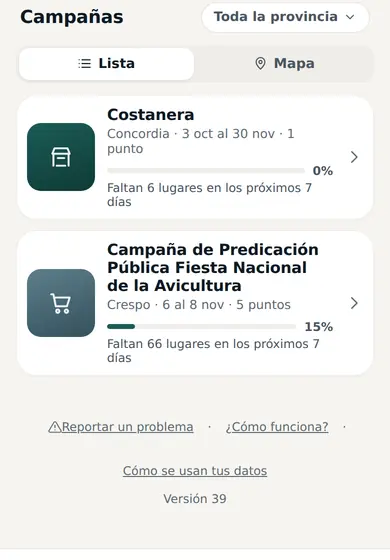
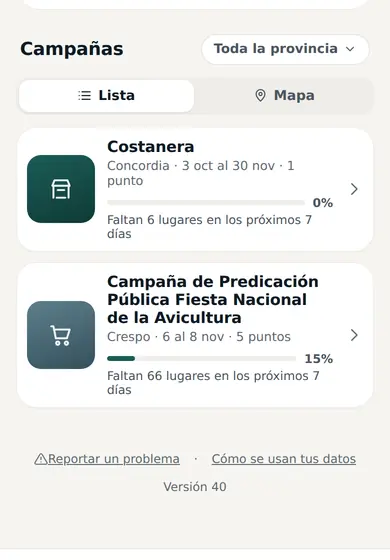
v41: pestaña Ayuda con preguntas frecuentes
Claude-Session: https://claude.ai/code/session_01JsTLEoMKfP711YL4JEEee1

diff --git a/app.js b/app.js
@@ -49,7 +49,7 @@
     admins: [], coordEmails: {}, pend: {}, pendUnsub: {},
     isSoporte: false, soporteEmails: [], sop: { reportes: {}, errores: {}, unsub: [], filtro: 'nuevo', detalle: false, limpio: false }, ultimoError: null
   };
-  const VERSION = '40';
+  const VERSION = '41';
   window.__ppam = S;   // para las pruebas
 
   function toast(msg) { if (/^No se pudo/.test(msg)) registrarError('aviso', msg); const t = $('toast'); t.textContent = msg; t.classList.add('show'); clearTimeout(toast.t); toast.t = setTimeout(() => t.classList.remove('show'), 2600); }
@@ -126,6 +126,7 @@
     else if (h[0] === 'coord') S.route = { name: 'coord', cid: h[1] || null };
     else if (h[0] === 'admin') S.route = { name: 'admin' };
     else if (h[0] === 'soporte') S.route = { name: 'soporte' };
+    else if (h[0] === 'ayuda') S.route = { name: 'ayuda', q: h[1] || '' };
     else S.route = { name: 'home' };
     window.scrollTo(0, 0);
   }
@@ -135,7 +136,7 @@
     const r = S.route, c = r.cid && S.campanas[r.cid];
     document.body.className = 'r-' + r.name;
     const esCoord = !!(S.user && (S.isAdmin || S.coordDe.length || S.isSoporte));
-    const atras = r.name === 'camp' || r.name === 'turno' || r.name === 'admin' || (r.name === 'soporte' && (S.isAdmin || S.coordDe.length)) || (r.name === 'coord' && r.cid && (S.isAdmin || S.coordDe.length > 1));
+    const atras = r.name === 'camp' || r.name === 'turno' || r.name === 'ayuda' || r.name === 'admin' || (r.name === 'soporte' && (S.isAdmin || S.coordDe.length)) || (r.name === 'coord' && r.cid && (S.isAdmin || S.coordDe.length > 1));
     $('backBtn').classList.toggle('hidden', !atras);
     $('brand').classList.toggle('hidden', r.name !== 'home' && S.loaded);
     $('shareBtn').classList.toggle('hidden', r.name !== 'camp' || !c);
@@ -145,13 +146,14 @@
     ub.setAttribute('aria-label', S.user ? 'Mi cuenta' : 'Ingresar');
     $('coordBtn').classList.toggle('hidden', !esCoord);
     $('busBtn').classList.toggle('hidden', !S.user);
-    [['tabHome', ['home', 'camp']], ['tabMis', ['mis', 'turno']], ['coordBtn', ['coord', 'admin', 'soporte']]].forEach(([id, rs]) => $(id).classList.toggle('on', rs.includes(r.name)));
+    [['tabHome', ['home', 'camp']], ['tabMis', ['mis', 'turno']], ['tabAyuda', ['ayuda']], ['coordBtn', ['coord', 'admin', 'soporte']]].forEach(([id, rs]) => $(id).classList.toggle('on', rs.includes(r.name)));
     let k = '', t = '', s = '';
     if (r.name === 'camp' && c) { k = c.ciudad || ''; t = c.nombre; s = campRango(c); }
     else if (r.name === 'mis') { t = 'Mis turnos'; s = 'Tus turnos, su estado y cómo llegar.'; }
     else if (r.name === 'turno') { t = 'Tu turno'; }
     else if (r.name === 'coord') { k = 'Coordinación'; t = c ? c.nombre : 'Tus campañas'; s = c ? (c.ciudad || '') + ' · ' + campRango(c) : ''; }
     else if (r.name === 'admin') { k = 'Administración'; t = 'Campañas y equipo'; }
+    else if (r.name === 'ayuda') { k = 'Ayuda'; t = 'Preguntas frecuentes'; s = 'Cómo anotarte, tus turnos y tus datos.'; }
     else if (r.name === 'soporte') { k = 'Soporte'; t = 'Reportes y errores'; s = 'Lo que avisan los hermanos y lo que la página anota sola.'; }
     $('tbKicker').textContent = k; $('tbTitle').textContent = t; $('tbSub').textContent = s;
     $('tbExtra').innerHTML = '';
@@ -262,6 +264,7 @@
     if (r.name === 'coord') return renderCoord();
     if (r.name === 'admin') return renderAdmin();
     if (r.name === 'soporte') return renderSoporte();
+    if (r.name === 'ayuda') return renderAyuda();
     renderHome();
   }
 
@@ -396,6 +399,45 @@
   function guiaCoord() {
     try { if (localStorage.getItem('ppam-guia-coord')) return ''; } catch (e) { return ''; }
     return `<div class="cguia"><b>${I('star', 'width:16px;height:16px')}Cómo se usa Coordinación</b><ul><li><b>Pedidos:</b> confirmá o no a quien se anotó. Con el botón verde le escribís por WhatsApp.</li><li><b>Del día:</b> quién va a cada punto, y la lista para compartir con el grupo.</li><li><b>La lupa</b> (arriba): buscá un hermano, un punto o un turno, y anotá a alguien que no usa la app.</li></ul><button type="button" class="sbtn" data-cguia>Entendido</button></div>`;
+  }
+  /* ---------- Ayuda: preguntas frecuentes (texto fijo, sin lecturas a Firebase) ---------- */
+  const AYUDA = [
+    { g: 'Anotarme', qs: [
+      ['google', '¿Por qué tengo que entrar con Google?', 'Para saber que sos vos: así nadie puede anotarse a tu nombre y podés ver tus turnos desde cualquier celular. Usamos tu cuenta solo para eso; no vemos tus correos ni tus contactos.'],
+      ['espera', 'Mi turno dice "Esperando confirmación", ¿qué significa?', 'Que tu pedido llegó bien y un coordinador de la campaña lo tiene que confirmar. Mientras tanto el lugar queda guardado para vos. Cuando lo confirme, en Mis turnos va a decir "Confirmado".'],
+      ['completo', 'Un horario dice "Completo", ¿qué hago?', 'Elegí otro horario u otro día: los que tienen lugar dicen "Faltan" y cuántos. Con el filtro "Con lugar" ves solo esos, y con la lupa de arriba buscás lugares libres para hoy o mañana en toda la provincia.'],
+      ['acompanado', '¿Puedo anotarme con mi esposa o con otro hermano?', 'Sí. Cada uno se anota con su propia cuenta en el mismo horario. Al anotarte podés dejar una nota para el coordinador, por ejemplo "Voy con mi esposa". Desde tu turno, "Invitar a alguien a este turno" le manda el enlace por WhatsApp.'],
+      ['varios', '¿Puedo anotarme en más de un turno?', 'Sí, en los que quieras. Si dos turnos se superponen en el horario, la app te avisa antes de confirmar.']
+    ] },
+    { g: 'Mis turnos', qs: [
+      ['confirmado', '¿Cómo sé si me confirmaron?', 'Entrá a Mis turnos: cada turno dice "Esperando confirmación" o "Confirmado". También lo ves en el inicio. La app no manda notificaciones; si hace falta, el coordinador te escribe por WhatsApp.'],
+      ['llegar', '¿Cómo llego al lugar?', 'En tu turno, "Llegar" abre Google Maps con el lugar marcado. En la campaña, "Ver lugar" muestra fotos e indicaciones del punto.'],
+      ['agendar', '¿Cómo lo agendo en el calendario del celular?', 'En tu turno tocá "Agendar": se descarga un archivo que tu celular abre con el calendario, con el día, el horario y el lugar.'],
+      ['cancelar', 'No puedo ir, ¿cómo cancelo?', 'Entrá a Mis turnos, tocá el turno y después "Cancelar". El lugar se libera enseguida para otro hermano. Avisá con tiempo: así el coordinador puede cubrirlo.']
+    ] },
+    { g: 'Mis datos y la app', qs: [
+      ['datos', '¿Quién ve mis datos?', 'Solo los coordinadores de la campaña en la que te anotaste, para organizar los turnos. Los demás hermanos ven cuántos lugares quedan, pero nunca quién está anotado.'],
+      ['borrar', '¿Cómo borro mis datos de este celular?', 'Tocá tu inicial arriba a la derecha y después "Borrar mis datos de este celular". Se borran tu nombre, celular y búsquedas guardadas; tus turnos no se tocan. Al cerrar sesión también se borra lo guardado.'],
+      ['instalar', '¿Cómo instalo la app en el celular?', 'Tocá tu inicial arriba a la derecha y después "Instalar la app". En iPhone: en Safari, tocá Compartir y "Agregar a inicio". Queda como un ícono más y abre más rápido.'],
+      ['senal', 'No me carga o tengo poca señal, ¿qué hago?', 'La app guarda en el celular lo último que cargó, así que podés ver campañas y turnos con poca señal. Si te anotás o cancelás sin conexión, se manda solo cuando vuelve. Si no carga nada, cerrala y volvé a abrirla; si sigue igual, usá "Reportar un problema".']
+    ] },
+    { g: 'Para coordinadores', coord: true, qs: [
+      ['anotar', '¿Cómo anoto a un hermano que no usa la app?', 'En Del día, tocá "Anotar" en el horario, o buscalo con la lupa de arriba. Queda confirmado y podés avisarle por WhatsApp con un solo mensaje.'],
+      ['lista', '¿Cómo paso la lista del día al grupo de WhatsApp?', 'En Del día, elegí el día y tocá "Compartir la lista por WhatsApp" al final: arma el mensaje con cada punto, horario y quiénes van.'],
+      ['recuperar', 'Borré algo por error, ¿se puede recuperar?', 'En Ajustes › Historial ves quién cambió qué y cuándo; los puntos y turnos borrados se pueden volver con "Restaurar". Para cualquier otra cosa, avisale al administrador: hay copias de seguridad diarias.']
+    ] }
+  ];
+  function renderAyuda() {
+    const esCoord = !!(S.user && (S.isAdmin || S.coordDe.length));
+    let h = `<button type="button" class="btn alt" id="ayBv" style="margin:4px 0 6px">${I('star', 'width:18px;height:18px')}Ver la bienvenida otra vez</button>`;
+    AYUDA.filter(g => !g.coord || esCoord).forEach(g => {
+      h += `<div class="sec">${esc(g.g)}</div><div class="card faq">${g.qs.map(([id, q, a]) => `<details name="faq" id="faq-${id}"${S.route.q === id ? ' open' : ''}><summary>${esc(q)}${I('chev', 'width:16px;height:16px')}</summary><p>${esc(a)}</p></details>`).join('')}</div>`;
+    });
+    h += `<div class="card" style="padding:14px 16px;margin-top:14px"><b>¿No encontraste tu respuesta?</b><p class="hint" style="margin:4px 0 10px">Contanos qué pasó y te ayuda el equipo de soporte.</p><button type="button" class="sbtn" id="ayRep">${I('alert', 'width:15px;height:15px')}Reportar un problema</button></div>`;
+    $('app').innerHTML = h;
+    $('ayBv').addEventListener('click', () => bienvenida(true));
+    $('ayRep').addEventListener('click', () => reportar());
+    if (S.route.q) { const d = $('faq-' + S.route.q); if (d) setTimeout(() => d.scrollIntoView({ block: 'center' }), 50); }
   }
   function renderHome() {
     const list = Object.values(S.campanas).filter(c => c.activa !== false && (!c.hasta || c.hasta >= hoy()))
@@ -775,7 +817,7 @@
     const url = rech ? '' : comoLlegarUrl(pt, c), d = parseIso(p.fecha), pasado = p.fecha < hoy();
     let h = pt.lat != null ? mapaLugar(pt, c, 'big')
       : `<div class="mapa big foto"${fotoAttr(p.cid, (pt.fotos || [])[0], `background-image:${colorDe(c.id ? c : { id: p.cid })};`)}></div>`;
-    h += `<div class="det"><div class="st ${esc(p.estado)}"><i></i>${conf ? 'Confirmado por un coordinador' : rech ? 'No fue confirmado' : 'Esperando confirmación'}</div>`;
+    h += `<div class="det"><div class="st ${esc(p.estado)}"><i></i>${conf ? 'Confirmado por un coordinador' : rech ? 'No fue confirmado' : 'Esperando confirmación'}${!conf && !rech ? ' <a class="qhelp" href="#/ayuda/espera">¿Qué significa?</a>' : ''}</div>`;
     h += `<h2>${esc(cap(DOW_L[d.getDay()]))} ${d.getDate()} de ${MES[d.getMonth()]} · <span class="num">${esc(p.desde)} a ${esc(p.hasta)}</span></h2>`;
     h += `<div class="m">${esc([c.nombre, pt.nombre, pt.direccion].filter(Boolean).join(' · '))}</div>`;
     if (!rech) h += `<div class="tl"><span class="ok"><span class="dot">${I('check')}</span>Pedido</span><span class="ln on"></span><span class="${conf ? 'ok' : ''}"><span class="dot">${conf ? I('check') : ''}</span>Confirmado</span><span class="ln${pasado ? ' on' : ''}"></span><span class="${pasado ? 'ok' : ''}"><span class="dot">${pasado ? I('check') : ''}</span>El día</span></div>`;
@@ -2227,7 +2269,7 @@
     }
     if (t.id === 'coordBtn') { go('#/coord'); return; }
     if (t.id === 'privBtn') { privacidad(); return; }
-    if (t.id === 'comoBtn') { bienvenida(true); return; }
+    if (t.id === 'comoBtn') { go('#/ayuda'); return; }
     if (t.closest('[data-cguia]')) { try { localStorage.setItem('ppam-guia-coord', '1'); } catch (e) { /* nada */ } renderCoord(); return; }
     if (ds.instalar !== undefined) { instalar(); return; }
     if (ds.vista) { S.vista = ds.vista; S.mapa.sel = null; try { localStorage.setItem('ppam-vista', ds.vista); } catch (er) { /* nada */ } renderHome(); return; }

diff --git a/tests/app.test.js b/tests/app.test.js
@@ -608,7 +608,7 @@ const SEED = {
       return { cx, m };
     };
     let { cx, m } = await abrir(seed, [], '#/c/parana-terminal');
-    check('al pie: "Reportar un problema", "¿Cómo funciona?" y la versión', /Reportar un problema\s*·\s*¿Cómo funciona\?\s*·\s*Cómo se usan tus datos\s*Versión \d+/.test(await text(m, '.foot')), await text(m, '.foot'));
+    check('al pie: "Reportar un problema" y la versión', /Reportar un problema\s*·\s*Cómo se usan tus datos\s*Versión \d+/.test(await text(m, '.foot')), await text(m, '.foot'));
     await m.evaluate(() => { window.dispatchEvent(new ErrorEvent('error', { message: 'Prueba de error', filename: 'https://x/app.js', lineno: 12 })); }); await m.waitForTimeout(150);
     let err = await m.evaluate(() => Object.entries(window.__store).filter(([k]) => k.startsWith('errores/') && k !== 'errores/viejo').map(([, v]) => v));
     check('un error de la página queda anotado solo, con pantalla, celular y versión (sin datos personales)', err.length === 1 && /Prueba de error/.test(err[0].msg) && err[0].pantalla === '#/c/parana-terminal' && /^\d+$/.test(err[0].ver) && err[0].disp && err[0].tipo === 'js' && Object.keys(err[0]).sort().join() === 'creado,disp,msg,pantalla,tipo,ver', err);
@@ -992,8 +992,8 @@ const SEED = {
     check('"Empezar" la cierra y queda marcada como vista', !(await st()) && await w.evaluate(() => localStorage.getItem('ppam-bienvenida') === '1'));
     await w.reload(); await w.waitForTimeout(700);
     check('no vuelve a aparecer', !(await st()));
-    await w.click('#comoBtn'); await w.waitForTimeout(150);
-    check('"¿Cómo funciona?" la vuelve a abrir', /Paso 1 de 4/i.test(((await st()) || {}).t || ''));
+    await w.click('#tabAyuda'); await w.waitForTimeout(200); await w.click('#ayBv'); await w.waitForTimeout(150);
+    check('desde Ayuda, "Ver la bienvenida otra vez" la vuelve a abrir', /Paso 1 de 4/i.test(((await st()) || {}).t || ''));
     await w.click('#bvSal'); await w.waitForTimeout(100);
     check('"Saltear" la cierra', !(await st()));
     check('las 4 animaciones y sus imágenes fijas existen y pesan poco', [1, 2, 3, 4].every(k => ['', '-fijo'].every(x => { try { return fs.statSync(path.resolve(__dirname, '..', 'img/bienvenida/paso' + k + x + '.webp')).size < 70000; } catch (e) { return false; } })));
@@ -1007,6 +1007,35 @@ const SEED = {
     await g.click('[data-cguia]'); await g.waitForTimeout(150);
     check('"Entendido" la cierra para siempre', !(await g.$('.cguia')) && await g.evaluate(() => localStorage.getItem('ppam-guia-coord') === '1'));
     check('sin errores (guía del coordinador)', g.errs.length === 0, g.errs);
+  }
+  console.log('\nAyuda: preguntas frecuentes');
+  {
+    const a = await open([], '');
+    check('la pestaña Ayuda está siempre en la barra de abajo', await a.evaluate(() => { const b = document.getElementById('tabAyuda'); return b && !b.classList.contains('hidden') && /Ayuda/.test(b.textContent); }));
+    await a.click('#tabAyuda'); await a.waitForTimeout(200);
+    const at = await text(a, '#app');
+    check('Ayuda: 13 preguntas para publicadores, en 3 grupos, sin las de coordinadores', await a.evaluate(() => document.querySelectorAll('.faq details').length) === 13 && /Anotarme[\s\S]*Mis turnos[\s\S]*Mis datos y la app/.test(at) && !/Para coordinadores/.test(at), at.slice(0, 200));
+    check('la pestaña queda marcada y el título dice "Preguntas frecuentes"', await a.evaluate(() => document.getElementById('tabAyuda').classList.contains('on')) && /Preguntas frecuentes/.test(await text(a, '#tbTitle')));
+    await a.click('#faq-completo summary'); await a.waitForTimeout(80);
+    check('tocar una pregunta muestra la respuesta', await a.evaluate(() => document.getElementById('faq-completo').open) && /Con lugar/.test(await text(a, '#faq-completo')));
+    await a.click('#faq-cancelar summary'); await a.waitForTimeout(80);
+    check('al abrir otra, la anterior se cierra', await a.evaluate(() => document.getElementById('faq-cancelar').open && !document.getElementById('faq-completo').open));
+    await a.click('#ayRep'); await a.waitForTimeout(150);
+    check('"¿No encontraste tu respuesta?" abre Reportar un problema', /Reportar un problema/.test(await text(a, '.sheet')));
+    check('sin errores (ayuda)', a.errs.length === 0, a.errs);
+    const ax2 = path.resolve(__dirname, '..', '..', 'axe', 'node_modules', 'axe-core', 'axe.min.js');
+    if (fs.existsSync(ax2)) { await a.keyboard.press('Escape'); await a.waitForTimeout(100); await a.addScriptTag({ content: fs.readFileSync(ax2, 'utf8') }); const v = await a.evaluate(async () => (await axe.run(document, { runOnly: { type: 'tag', values: ['wcag2a', 'wcag2aa', 'wcag21aa', 'wcag22aa'] } })).violations.map(x => x.id + ' x' + x.nodes.length)); check('axe (WCAG 2.2 AA) sin problemas: Ayuda', v.length === 0, v); }
+    const k = await open([{ uid: 'u-adm', email: 'admin@x.com', displayName: 'Admin' }], '');
+    await k.click('#userBtn'); await k.waitForTimeout(300); await k.evaluate(() => { location.hash = '#/ayuda/recuperar'; }); await k.waitForTimeout(300);
+    check('el coordinador ve además "Para coordinadores", y un enlace abre esa respuesta', /Para coordinadores/.test(await text(k, '#app')) && await k.evaluate(() => document.getElementById('faq-recuperar').open) && await k.evaluate(() => document.querySelectorAll('.faq details').length) === 16);
+    const u = await open([{ uid: 'u-ana', email: 'ana@x.com', displayName: 'Ana Paz' }], '');
+    await u.click('#userBtn'); await u.waitForTimeout(300);
+    await u.evaluate(() => { const db = window.__ppamMock.db; db.doc('pedidos/parana-terminal__2026-10-02__t2__u-ana').set({ cid: 'parana-terminal', fecha: '2026-10-02', tid: 't2', punto: 'p1', desde: '10:00', hasta: '12:00', uid: 'u-ana', email: 'ana@x.com', nombre: 'Ana', apellido: 'Paz', congregacion: 'X', celular: '343 555-0000', estado: 'pendiente', creado: 'x' }); });
+    await u.evaluate(() => { location.hash = '#/t/parana-terminal__2026-10-02__t2__u-ana'; }); await u.waitForTimeout(400);
+    check('en un turno pendiente: "¿Qué significa?"', !!(await u.$('.qhelp')));
+    await u.click('.qhelp'); await u.waitForTimeout(300);
+    check('lleva a la Ayuda con esa respuesta abierta', await u.evaluate(() => location.hash === '#/ayuda/espera' && document.getElementById('faq-espera').open));
+    check('sin errores (enlaces de ayuda)', k.errs.length === 0 && u.errs.length === 0, [k.errs, u.errs]);
   }
   console.log('\nCampaña corta: solo sus días');
   {

diff --git a/index.html b/index.html
@@ -26,11 +26,11 @@
 <link rel="preconnect" href="https://fonts.googleapis.com">
 <link rel="preconnect" href="https://fonts.gstatic.com" crossorigin>
 <link rel="stylesheet" href="https://fonts.googleapis.com/css2?family=Inter:wght@400;500;600;700&family=Inter+Tight:wght@600;700&display=swap">
-<link rel="stylesheet" href="./app.css?v=40">
+<link rel="stylesheet" href="./app.css?v=41">
 <script defer src="https://www.gstatic.com/firebasejs/10.13.2/firebase-app-compat.js"></script>
 <script defer src="https://www.gstatic.com/firebasejs/10.13.2/firebase-auth-compat.js"></script>
 <script defer src="https://www.gstatic.com/firebasejs/10.13.2/firebase-firestore-compat.js"></script>
-<script defer src="./firebase-config.js?v=40"></script>
+<script defer src="./firebase-config.js?v=41"></script>
 </head>
 <body>
   <svg width="0" height="0" style="position:absolute" aria-hidden="true"><defs>
@@ -43,7 +43,7 @@
     <symbol id="i-back" viewBox="0 0 24 24"><path d="M15 5l-7 7 7 7"/></symbol>
     <symbol id="i-share" viewBox="0 0 24 24"><path d="M12 3v12M7 8l5-5 5 5M5 14v5a2 2 0 0 0 2 2h10a2 2 0 0 0 2-2v-5"/></symbol>
     <symbol id="i-check" viewBox="0 0 24 24"><path d="M5 12.5l4.5 4.5L19 7.5"/></symbol>
-    <symbol id="i-x" viewBox="0 0 24 24"><path d="M6 6l12 12M18 6 6 18"/></symbol><symbol id="i-list" viewBox="0 0 24 24"><path d="M8 6h13M8 12h13M8 18h13M3.5 6h.01M3.5 12h.01M3.5 18h.01"/></symbol><symbol id="i-gps" viewBox="0 0 24 24"><circle cx="12" cy="12" r="4"/><path d="M12 2v3M12 19v3M2 12h3M19 12h3"/></symbol><symbol id="i-fit" viewBox="0 0 24 24"><path d="M4 9V5a1 1 0 0 1 1-1h4M15 4h4a1 1 0 0 1 1 1v4M20 15v4a1 1 0 0 1-1 1h-4M9 20H5a1 1 0 0 1-1-1v-4"/><circle cx="12" cy="12" r="2.5"/></symbol><symbol id="i-alert" viewBox="0 0 24 24"><path d="M12 9v4M12 17h.01"/><path d="M10.3 3.9 1.8 18a2 2 0 0 0 1.7 3h17a2 2 0 0 0 1.7-3L13.7 3.9a2 2 0 0 0-3.4 0z"/></symbol><symbol id="i-edit" viewBox="0 0 24 24"><path d="M12 20h9"/><path d="M16.5 3.5a2.1 2.1 0 0 1 3 3L7 19l-4 1 1-4Z"/></symbol>
+    <symbol id="i-help" viewBox="0 0 24 24"><circle cx="12" cy="12" r="9"/><path d="M9.6 9.3a2.5 2.5 0 0 1 4.8.9c0 1.7-2.4 2.2-2.4 3.6"/><path d="M12 17.2h.01"/></symbol><symbol id="i-x" viewBox="0 0 24 24"><path d="M6 6l12 12M18 6 6 18"/></symbol><symbol id="i-list" viewBox="0 0 24 24"><path d="M8 6h13M8 12h13M8 18h13M3.5 6h.01M3.5 12h.01M3.5 18h.01"/></symbol><symbol id="i-gps" viewBox="0 0 24 24"><circle cx="12" cy="12" r="4"/><path d="M12 2v3M12 19v3M2 12h3M19 12h3"/></symbol><symbol id="i-fit" viewBox="0 0 24 24"><path d="M4 9V5a1 1 0 0 1 1-1h4M15 4h4a1 1 0 0 1 1 1v4M20 15v4a1 1 0 0 1-1 1h-4M9 20H5a1 1 0 0 1-1-1v-4"/><circle cx="12" cy="12" r="2.5"/></symbol><symbol id="i-alert" viewBox="0 0 24 24"><path d="M12 9v4M12 17h.01"/><path d="M10.3 3.9 1.8 18a2 2 0 0 0 1.7 3h17a2 2 0 0 0 1.7-3L13.7 3.9a2 2 0 0 0-3.4 0z"/></symbol><symbol id="i-edit" viewBox="0 0 24 24"><path d="M12 20h9"/><path d="M16.5 3.5a2.1 2.1 0 0 1 3 3L7 19l-4 1 1-4Z"/></symbol>
     <symbol id="i-chev" viewBox="0 0 24 24"><path d="M9 5l7 7-7 7"/></symbol><symbol id="i-users" viewBox="0 0 24 24"><circle cx="9" cy="8" r="3.5"/><path d="M2.5 20c.6-3.4 3.3-5.5 6.5-5.5s5.9 2.1 6.5 5.5"/><path d="M15.5 4.8a3.5 3.5 0 0 1 0 6.4M17.5 14.8c2.2.6 3.7 2.5 4 5.2"/></symbol>
     <symbol id="i-down" viewBox="0 0 24 24"><path d="M6 9l6 6 6-6"/></symbol>
     <symbol id="i-chat" viewBox="0 0 24 24"><path d="M4 20l1.4-4A8 8 0 1 1 8 18.7z"/></symbol>
@@ -93,17 +93,18 @@
   </script>
 
   <footer class="foot">
-    <div class="foot-links"><button type="button" class="linkish" id="repBtn"><svg class="ic" aria-hidden="true"><use href="#i-alert"/></svg>Reportar un problema</button><span class="dot">·</span><button type="button" class="linkish" id="comoBtn">¿Cómo funciona?</button><span class="dot">·</span><button type="button" class="linkish" id="privBtn">Cómo se usan tus datos</button></div>
-    <div class="foot-ver" id="verTxt">Versión 40</div>
+    <div class="foot-links"><button type="button" class="linkish" id="repBtn"><svg class="ic" aria-hidden="true"><use href="#i-alert"/></svg>Reportar un problema</button><span class="dot">·</span><button type="button" class="linkish" id="privBtn">Cómo se usan tus datos</button></div>
+    <div class="foot-ver" id="verTxt">Versión 41</div>
   </footer>
 
   <nav class="tabbar" id="tabbar" aria-label="Secciones">
     <button type="button" id="tabHome" data-go="#/"><svg class="ic" aria-hidden="true"><use href="#i-home"/></svg>Inicio</button>
     <button type="button" id="tabMis" data-go="#/mis"><svg class="ic" aria-hidden="true"><use href="#i-cal"/></svg>Mis turnos</button>
+    <button type="button" id="tabAyuda" data-go="#/ayuda"><svg class="ic" aria-hidden="true"><use href="#i-help"/></svg>Ayuda</button>
     <button type="button" id="coordBtn" class="hidden"><svg class="ic" aria-hidden="true"><use href="#i-grid"/></svg>Coordinar</button>
   </nav>
 
   <div class="toast" id="toast" role="status"></div>
-  <script defer src="./app.js?v=40"></script>
+  <script defer src="./app.js?v=41"></script>
 </body>
 </html>

diff --git a/app.css b/app.css
@@ -21,7 +21,7 @@
 * { box-sizing: border-box; }
 .hidden { display: none !important; }
 html, body { margin: 0; background: var(--bg); color: var(--ink); font-family: Inter, system-ui, -apple-system, "Segoe UI", Roboto, sans-serif; -webkit-font-smoothing: antialiased; }
-body { padding-bottom: calc(84px + env(safe-area-inset-bottom)); }
+body { padding-bottom: calc(96px + env(safe-area-inset-bottom)); }
 button { font: inherit; cursor: pointer; color: inherit; }
 a { color: var(--pri); }
 .ic { width: 18px; height: 18px; stroke: currentColor; fill: none; stroke-width: 1.8; stroke-linecap: round; stroke-linejoin: round; flex-shrink: 0; vertical-align: middle; }
@@ -819,3 +819,14 @@ a.btn { display: flex; align-items: center; justify-content: center; gap: 8px; t
 .bvan img { display: block; width: 100%; height: 100%; }
 .bvs { min-height: 0; }
 .bvs p { min-height: 4.6em; }
+
+/* Ayuda: preguntas frecuentes */
+.faq details { border-top: 1px solid var(--line2); }
+.faq details:first-child { border-top: 0; }
+.faq summary { list-style: none; display: flex; align-items: center; justify-content: space-between; gap: 12px; padding: 14px 16px; font-weight: 600; font-size: 15px; line-height: 1.35; cursor: pointer; }
+.faq summary::-webkit-details-marker { display: none; }
+.faq summary svg { flex-shrink: 0; color: var(--ink3); transform: rotate(90deg); transition: transform .15s; }
+.faq details[open] summary svg { transform: rotate(-90deg); }
+.faq details p { margin: -4px 16px 14px; color: var(--ink2); font-size: 14.5px; line-height: 1.55; }
+.qhelp { margin-left: 8px; font-weight: 500; font-size: 13px; color: var(--pri); text-decoration: underline; text-underline-offset: 2px; }
+.tabbar button { min-width: 0; }

diff --git a/service-worker.js b/service-worker.js
@@ -1,8 +1,8 @@
 // Service worker de PPAM Entre Ríos: guarda la página y Firebase para que abra rápido y también sin señal.
-const CACHE = 'ppam-v42';
+const CACHE = 'ppam-v43';
 const SDK = 'ppam-sdk-10.13.2';   // Firebase (gstatic): misma versión = mismo archivo, se guarda una vez para abrir sin señal
 const SDK_URLS = ['app', 'auth', 'firestore'].map(n => `https://www.gstatic.com/firebasejs/10.13.2/firebase-${n}-compat.js`);
-const ASSETS = ['./', './index.html', './app.js?v=40', './app.css?v=40', './firebase-config.js?v=40', './manifest.json', './icon-192.png', './icon-512.png', './icon-180.png', './icon-64.png'];
+const ASSETS = ['./', './index.html', './app.js?v=41', './app.css?v=41', './firebase-config.js?v=41', './manifest.json', './icon-192.png', './icon-512.png', './icon-180.png', './icon-64.png'];
 self.addEventListener('install', (e) => { e.waitUntil(Promise.all([caches.open(CACHE).then(c => c.addAll(ASSETS)), caches.open(SDK).then(c => Promise.all(SDK_URLS.map(u => c.match(u).then(r => r || fetch(u, { mode: 'no-cors' }).then(n => c.put(u, n)))))).catch(() => {})])); self.skipWaiting(); });
 self.addEventListener('activate', (e) => { e.waitUntil(caches.keys().then(ks => Promise.all(ks.filter(k => k.startsWith('ppam-') && !k.startsWith('ppam-fotos') && k !== SDK && k !== CACHE).map(k => caches.delete(k)))).then(() => self.clients.claim())); });
 self.addEventListener('fetch', (e) => {

diff --git a/CHANGELOG.md b/CHANGELOG.md
@@ -6,6 +6,12 @@
 
 
 
+
+## Versión 41 — Ayuda
+- Nueva pestaña "Ayuda" en la barra de abajo, siempre visible: 16 preguntas frecuentes en grupos (Anotarme, Mis turnos, Mis datos y la app, y Para coordinadores, que solo ven ellos). Cada pregunta se abre al tocarla; arriba, "Ver la bienvenida otra vez"; al final, "Reportar un problema".
+- En un turno pendiente, "¿Qué significa?" junto a "Esperando confirmación" abre esa respuesta.
+- El pie de la app ya no queda tapado por la barra de abajo.
+- Las animaciones de la bienvenida se regeneraron con la barra nueva.
 ## Versión 40 — bienvenida
 - La primera vez que alguien abre el inicio aparece una bienvenida de 4 pasos (elegir campaña, día y horario, anotarse con Google, la confirmación), cada uno con una animación corta hecha con capturas reales. Se puede saltear y se vuelve a ver con "¿Cómo funciona?" al pie. No aparece si se entra por un enlace a una campaña o un turno.
 - Con "reducir movimiento" activado se ven imágenes fijas. Las animaciones (unos 140 KB en total) se cargan solo al abrir la bienvenida.
